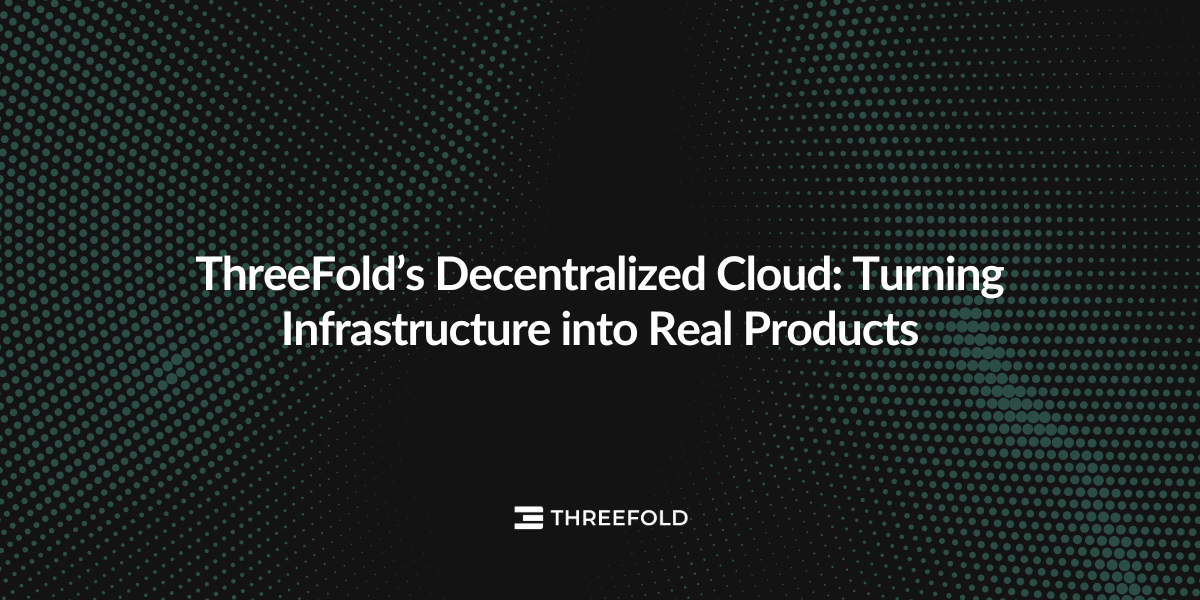
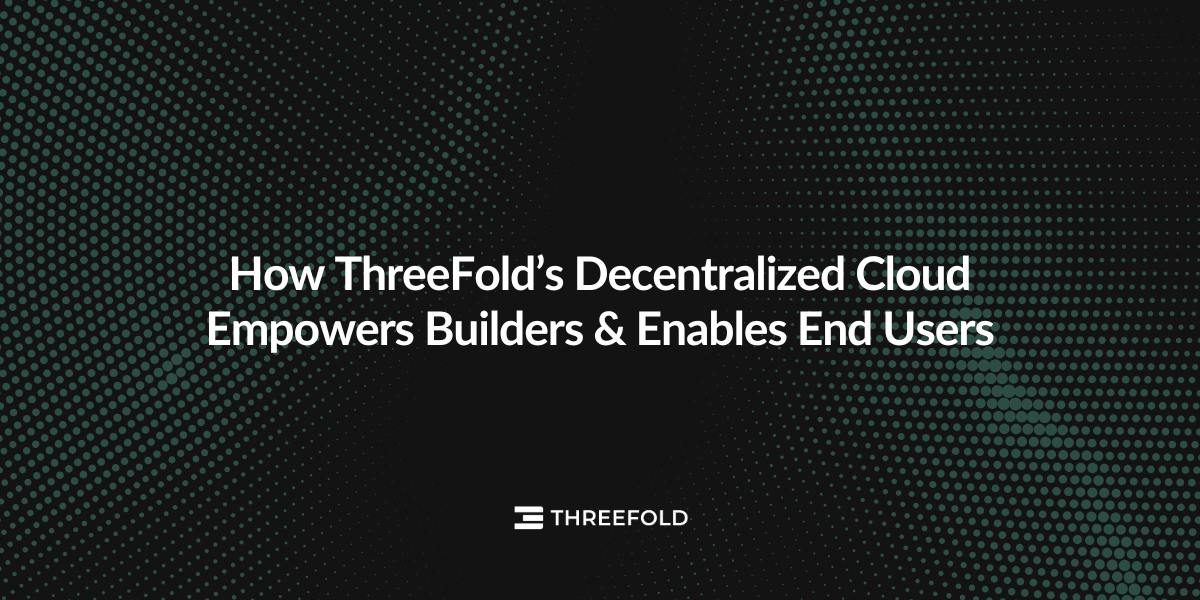
Update blog title and image

Changed region(s): [[0.1542, 0.42, 0.8325, 0.6]]

diff --git a/content/blog/tf_decentralized_cloud_new/index.md b/content/blog/tf_decentralized_cloud_new/index.md
@@ -1,6 +1,6 @@
 ---
 id: tf_decentralized_cloud_newthreefold_impact
-title: "ThreeFold’s Decentralized Cloud: Turning Infrastructure into Real Products"
+title: "How ThreeFold's Decentralized Cloud Empowers Builders – and End Users"
 image_caption: technology
 description: ThreeFold isn’t just a vision for the future. It’s a functioning, decentralized infrastructure already in production.
 date: 2025-10-08
